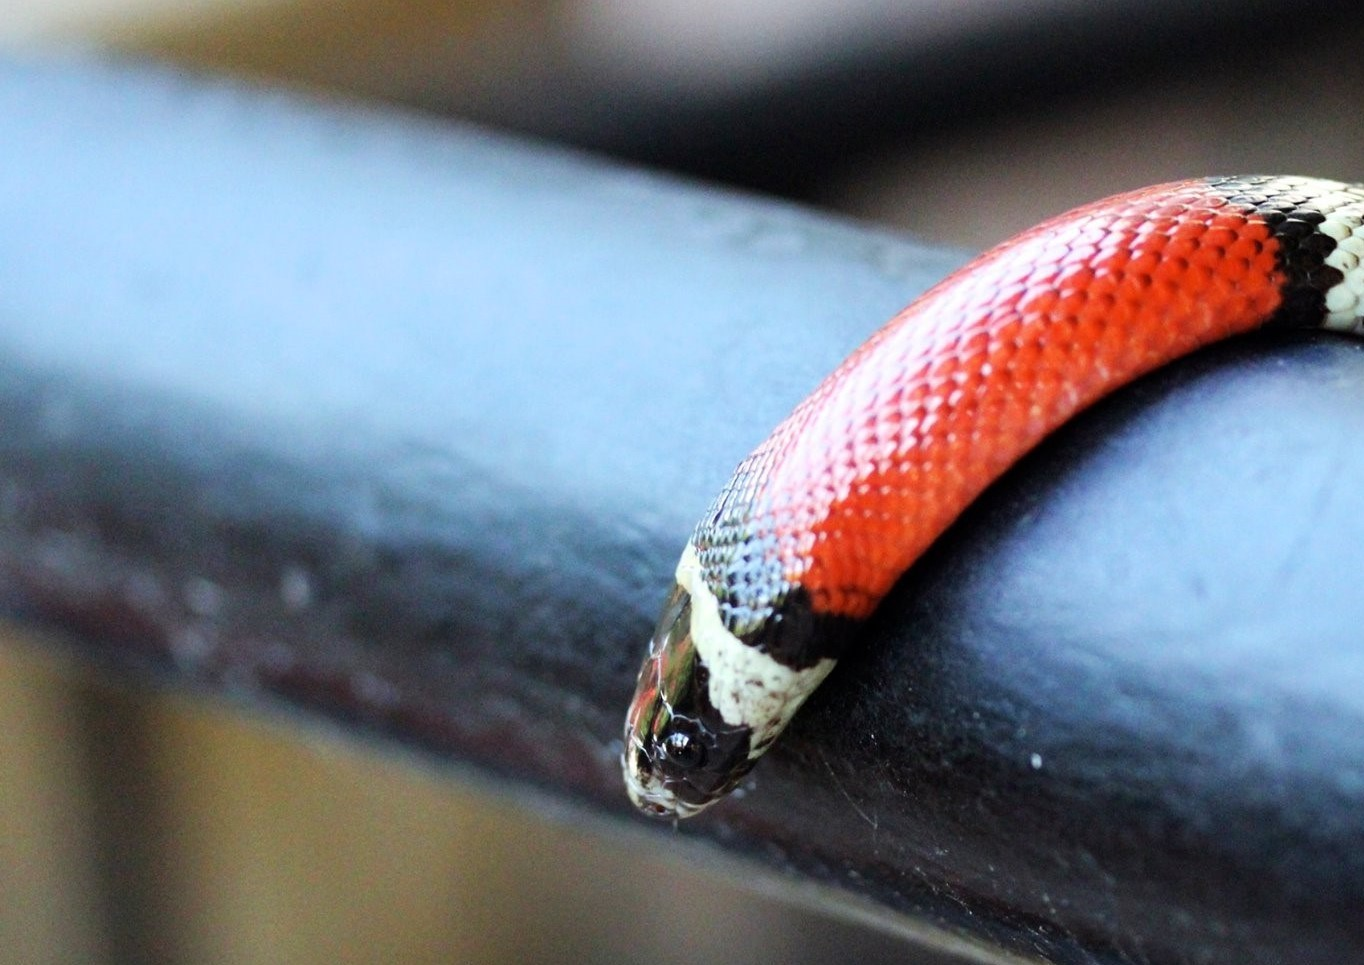
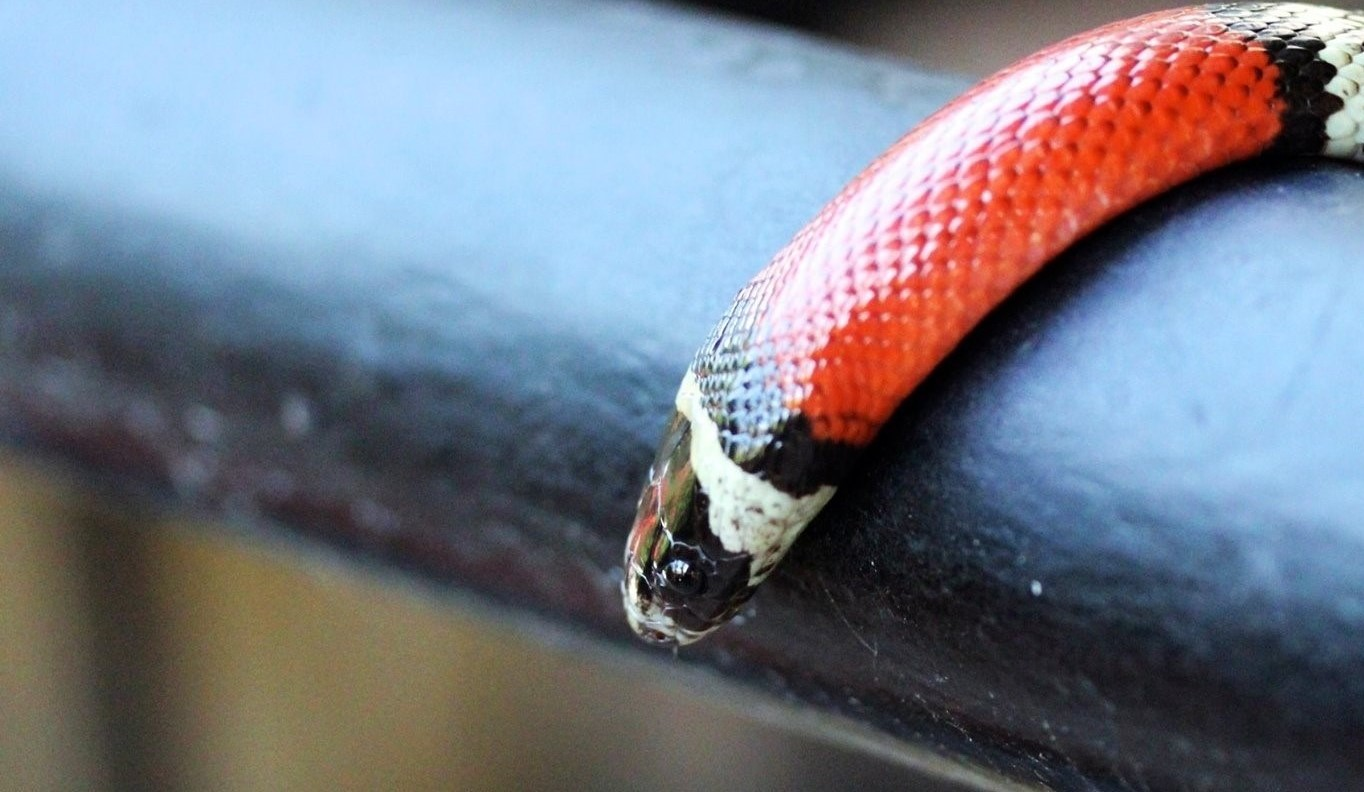
Fixed the nav and hero image placement

diff --git a/style.css b/style.css
@@ -85,6 +85,7 @@ header {
 }
 .logo {
   width: 20%;
+  margin-right: auto;
 }
 
 .nav-top {
@@ -94,7 +95,7 @@ header {
 
   display: flex;
   align-items: center;
-  justify-content: space-between;
+  gap: 24px;
   color: white;
 }
 
